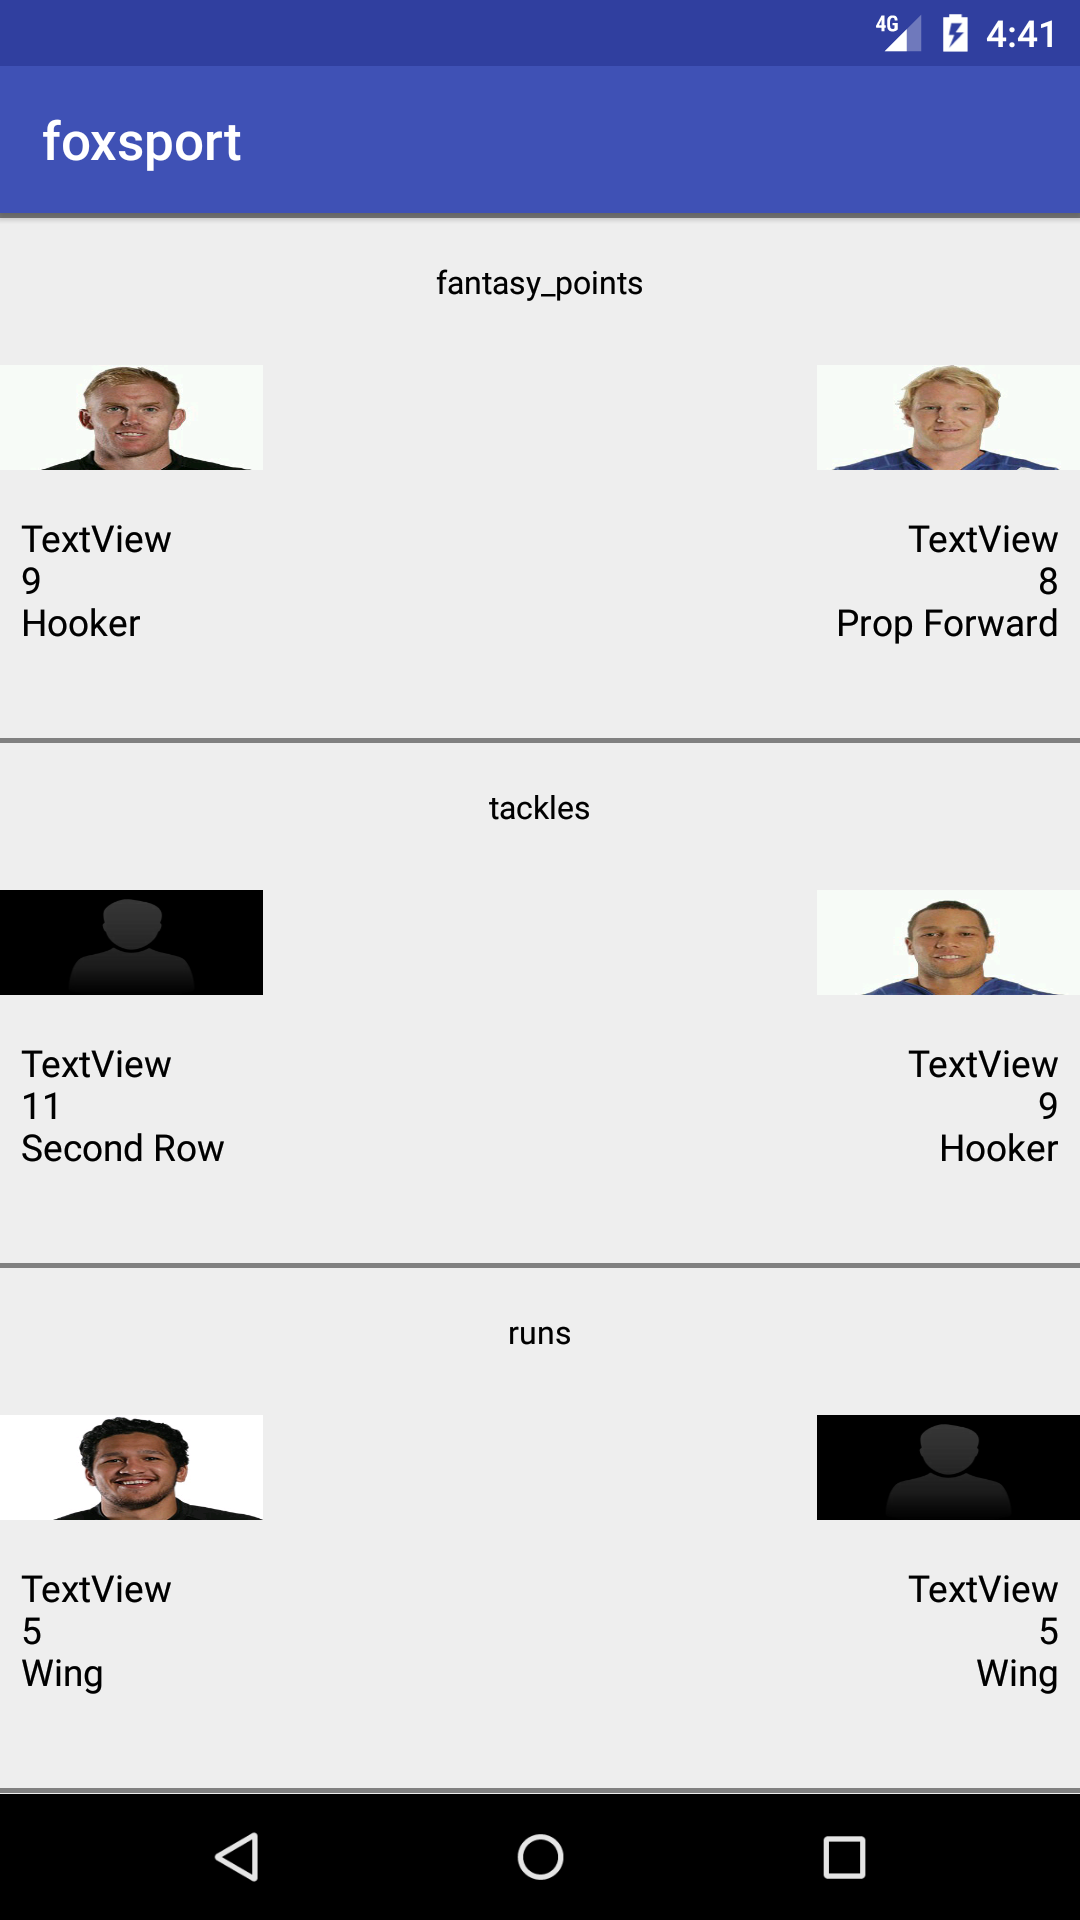
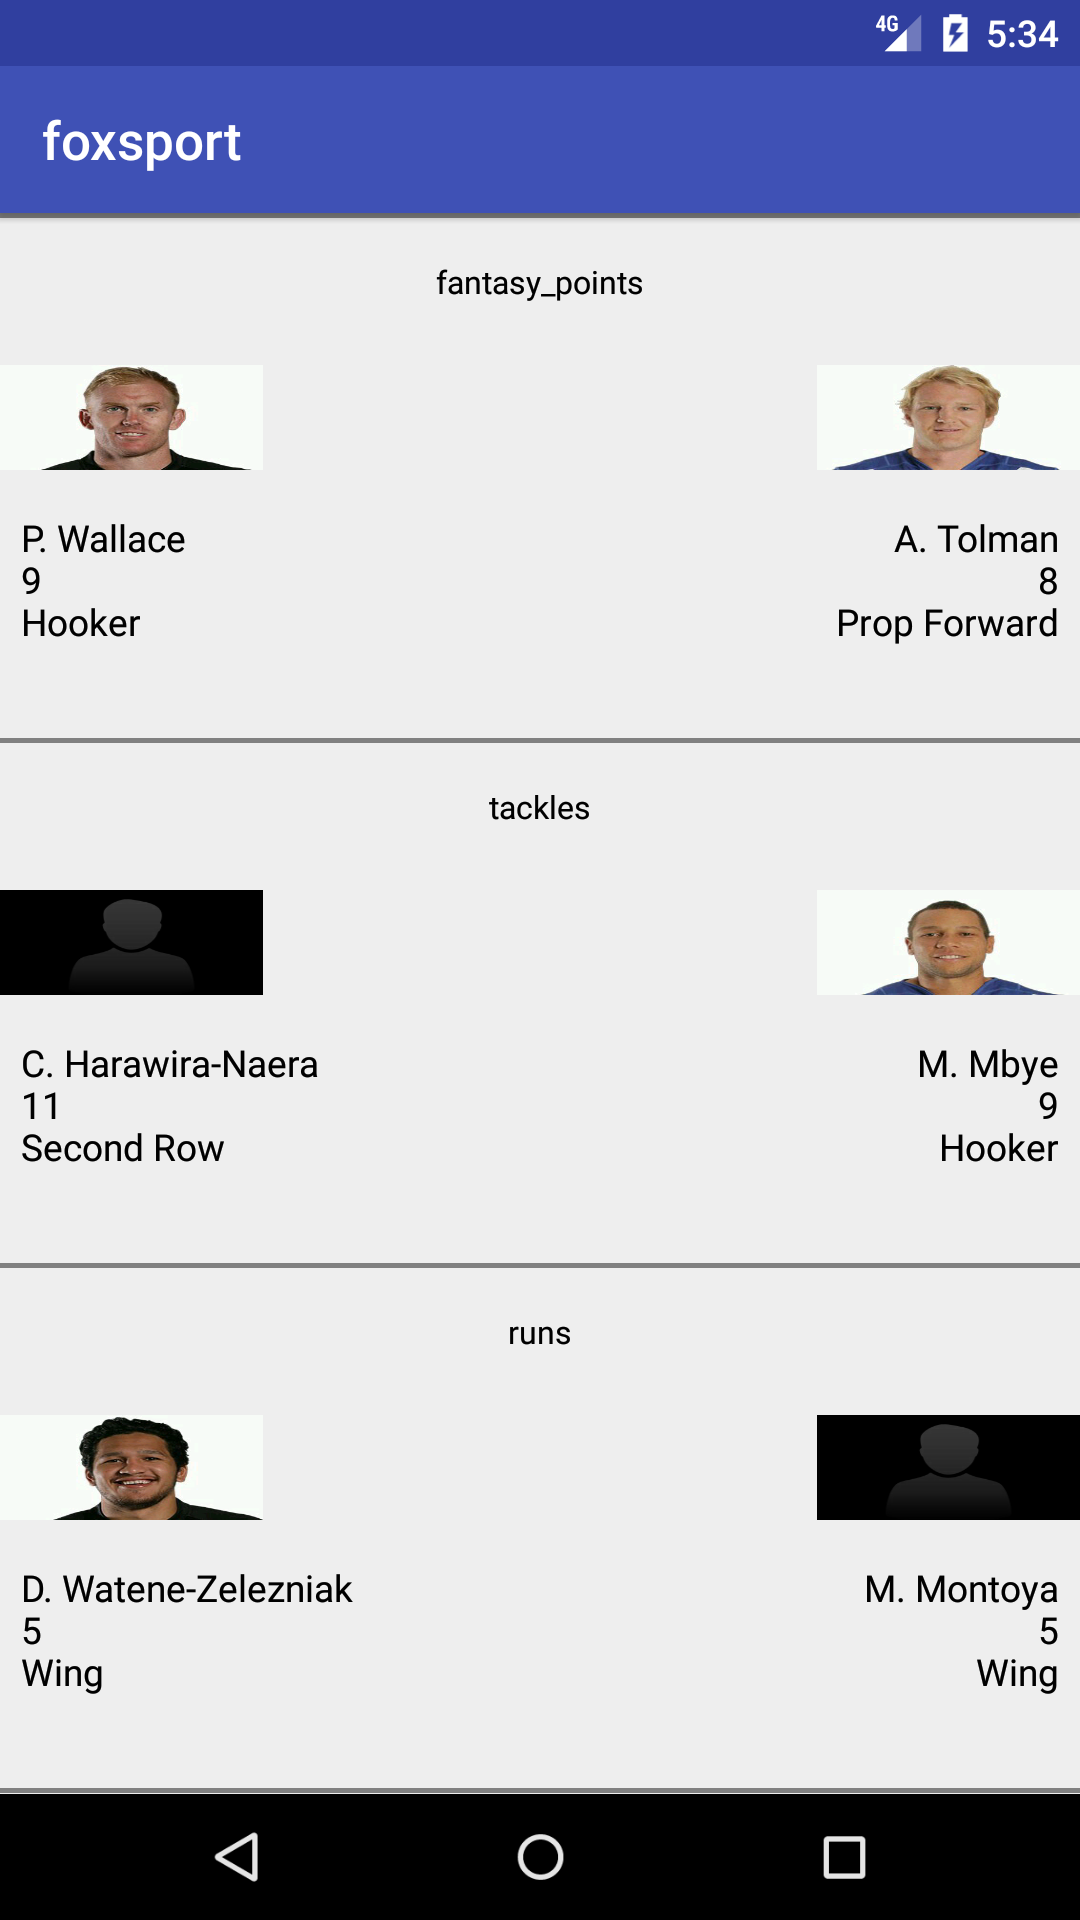
fix mismatch name

diff --git a/app/src/main/java/com/reza/foxsport/match/view/MatchesAdapter.kt b/app/src/main/java/com/reza/foxsport/match/view/MatchesAdapter.kt
@@ -45,7 +45,7 @@ class MatchesAdapter(callback: Callback) : RecyclerView.Adapter<MatchesAdapter.I
                 .into(holder?.matchPalyerAImage)
 
         holder?.matchPalyerAShortName?.text = matches?.get(position)?.getTeamA()?.getTopPlayers()?.get(position)?.getShortName()
-        holder?.matchPalyerAJumpoerName?.text = matches?.get(position)?.getTeamA()?.getTopPlayers()?.get(position)?.getJumperNumber().toString()
+        holder?.matchPalyerAJumperNumber?.text = matches?.get(position)?.getTeamA()?.getTopPlayers()?.get(position)?.getJumperNumber().toString()
         holder?.matchPalyerAPosition?.text = matches?.get(position)?.getTeamA()?.getTopPlayers()?.get(position)?.getPosition()
 
 
@@ -59,7 +59,7 @@ class MatchesAdapter(callback: Callback) : RecyclerView.Adapter<MatchesAdapter.I
                 .into(holder?.matchPalyerBImage)
 
         holder?.matchPalyerBShortName?.text = matches?.get(position)?.getTeamB()?.getTopPlayers()?.get(position)?.getShortName()
-        holder?.matchPalyerBJumpoerName?.text = matches?.get(position)?.getTeamB()?.getTopPlayers()?.get(position)?.getJumperNumber().toString()
+        holder?.matchPalyerBJumperNumber?.text = matches?.get(position)?.getTeamB()?.getTopPlayers()?.get(position)?.getJumperNumber().toString()
         holder?.matchPalyerBPosition?.text = matches?.get(position)?.getTeamB()?.getTopPlayers()?.get(position)?.getPosition()
 
         holder?.itemView?.setOnClickListener({ view ->
@@ -73,7 +73,7 @@ class MatchesAdapter(callback: Callback) : RecyclerView.Adapter<MatchesAdapter.I
         if(matches != null) {
             return matches?.size!!
         } else
-        return 1
+            return 1
     }
 
     fun updateMatches(matches: MutableList<Match>?) {
@@ -89,14 +89,14 @@ class MatchesAdapter(callback: Callback) : RecyclerView.Adapter<MatchesAdapter.I
         var matchStatType = view.tv_statType
 
         var matchPalyerAImage = view.iv_palyerA
-        var matchPalyerAShortName = view.tv_palyerBJumperName
-        var matchPalyerAJumpoerName = view.tv_palyerAJumperName
+        var matchPalyerAShortName = view.tv_palyerAShortName
+        var matchPalyerAJumperNumber = view.tv_palyerAJumperNumber
         var matchPalyerAPosition = view.tv_palyerAPosition
 
         var matchPalyerBImage = view.iv_palyerB
-        var matchPalyerBShortName = view.tv_palyerBJumperName
-        var matchPalyerBJumpoerName = view.tv_palyerBJumperName
+        var matchPalyerBShortName = view.tv_palyerBShortName
+        var matchPalyerBJumperNumber = view.tv_palyerBJumperNumber
         var matchPalyerBPosition = view.tv_palyerBPosition
-        }
+    }
 
 }
